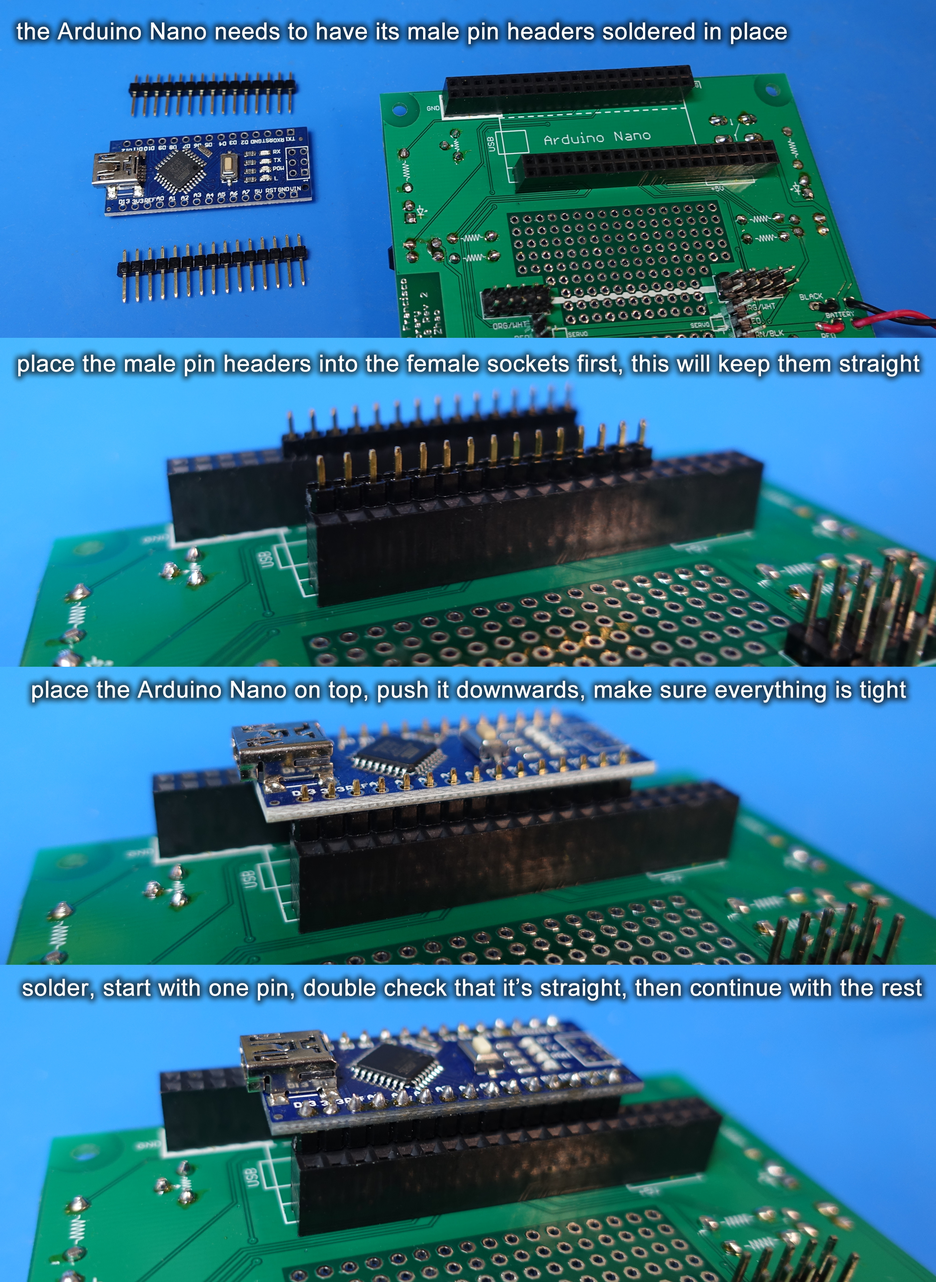
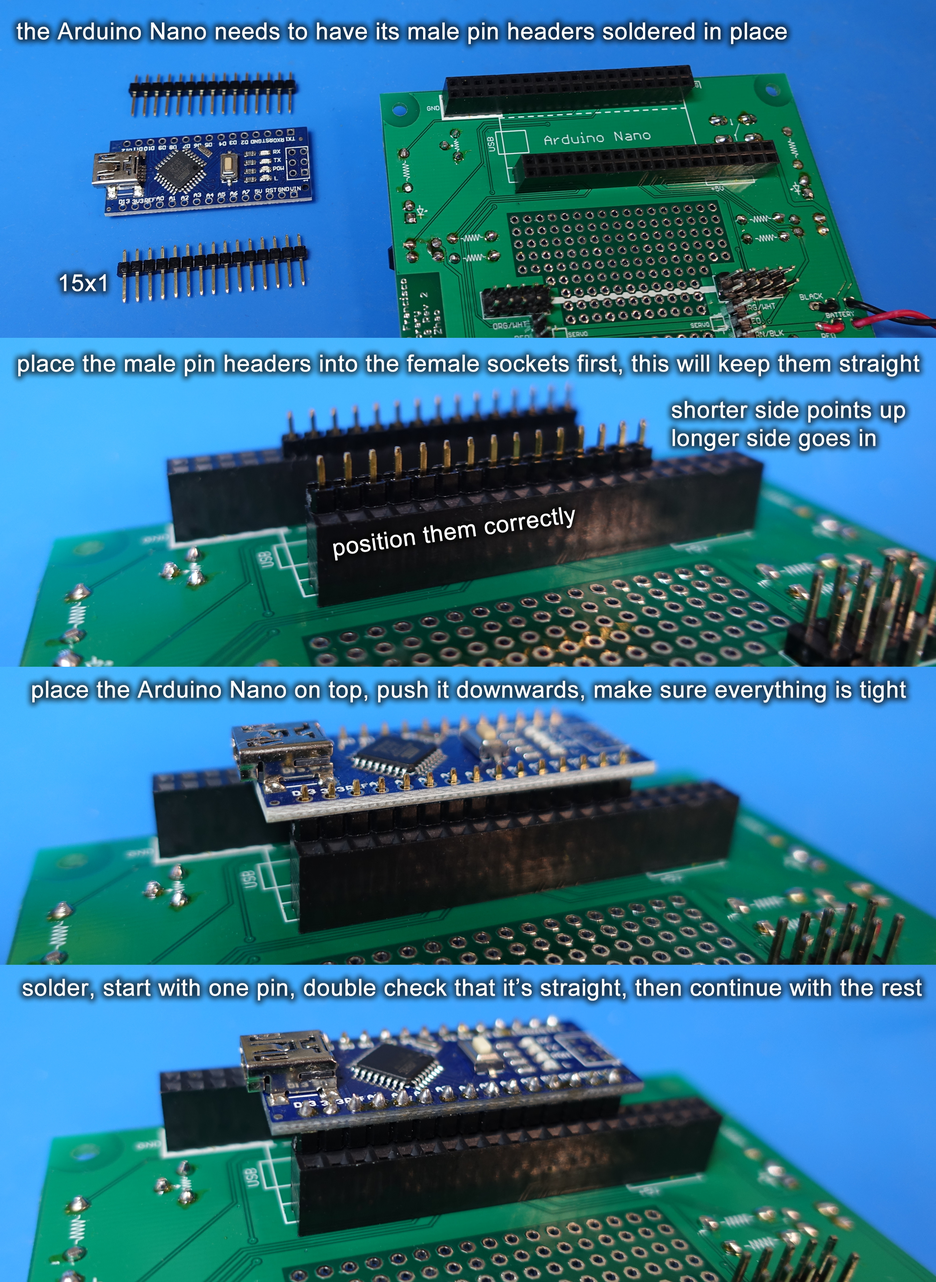
more verbose instruction on header soldering

Changed region(s): [[0.713, 0.3102, 0.992, 0.3723], [0.372, 0.4033, 0.62, 0.4343], [0.062, 0.1861, 0.124, 0.2482]]

diff --git a/courseware/robotassembly.htm b/courseware/robotassembly.htm
@@ -340,6 +340,8 @@ function body_onload() {
 
 <div class="center_outer"><div class="center_inner"><img src="img/instruct/cutting_headers_1.jpg" /></div></div>
 <br />
+<div class="center_outer"><div class="center_inner"><img src="img/instruct/which_end_of_header.jpg" width="100%" /></div></div>
+<br />
 <div class="center_outer"><div class="center_inner"><a href="img/instruct/all_big_headers_placement.png"><img src="img/instruct/all_big_headers_placement.png" width="100%" /></a></div></div><br />
 <div class="center_outer"><div class="center_inner"><a href="img/instruct/push_down_big_headers.png"><img src="img/instruct/push_down_big_headers.png" width="100%" /></a></div></div>
 
